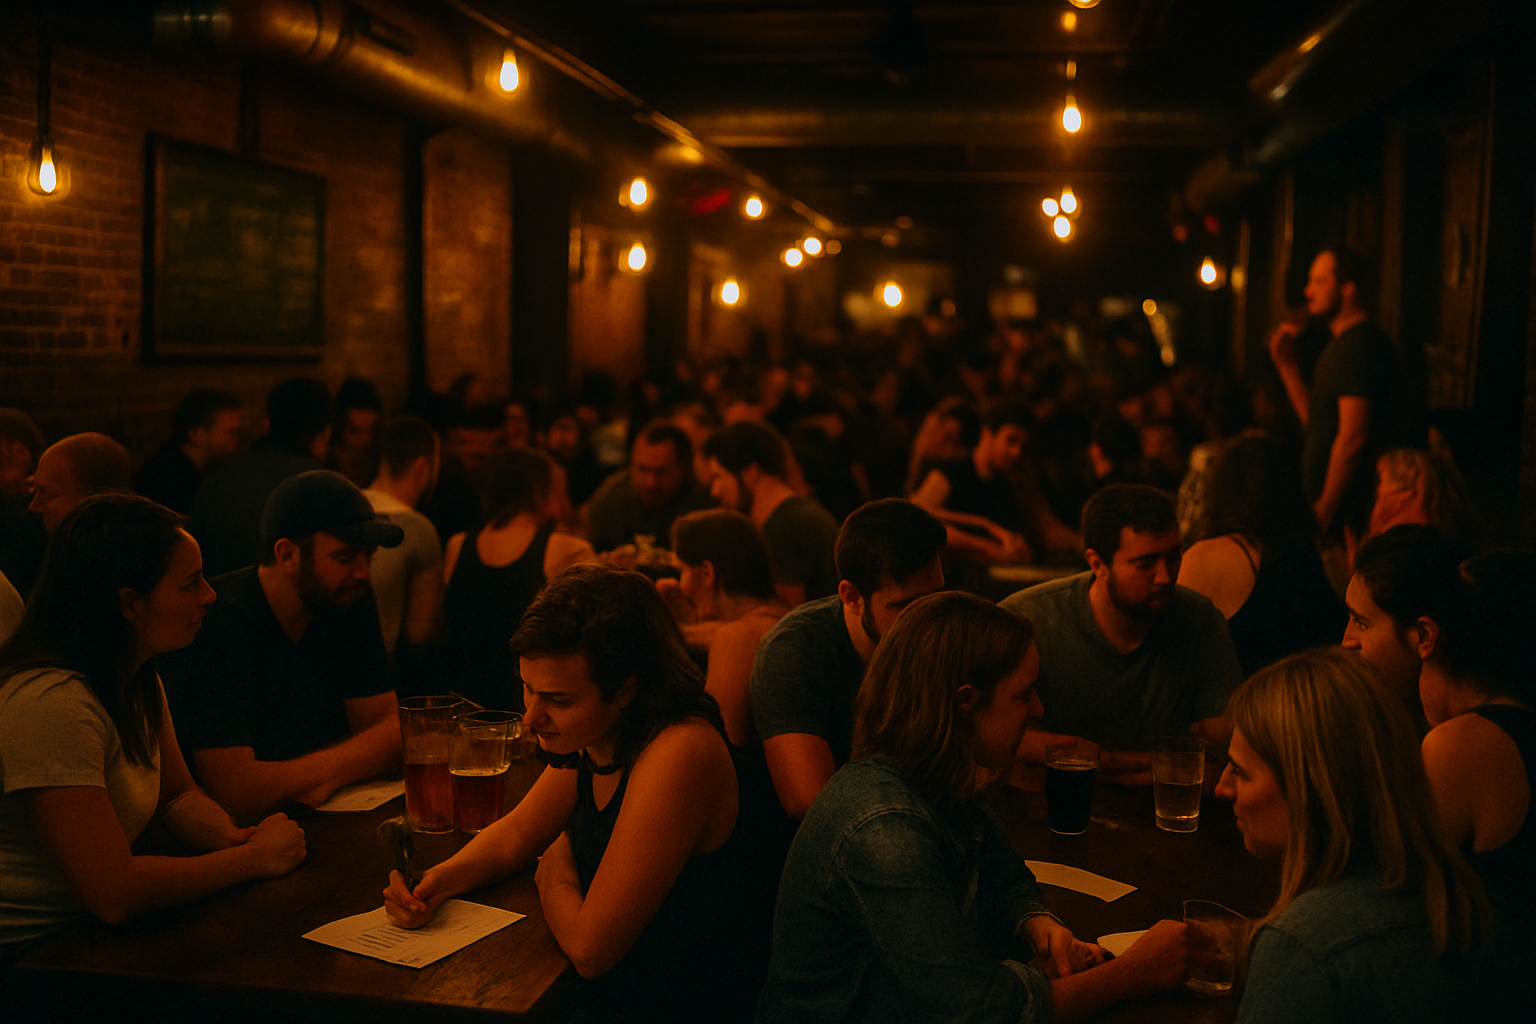
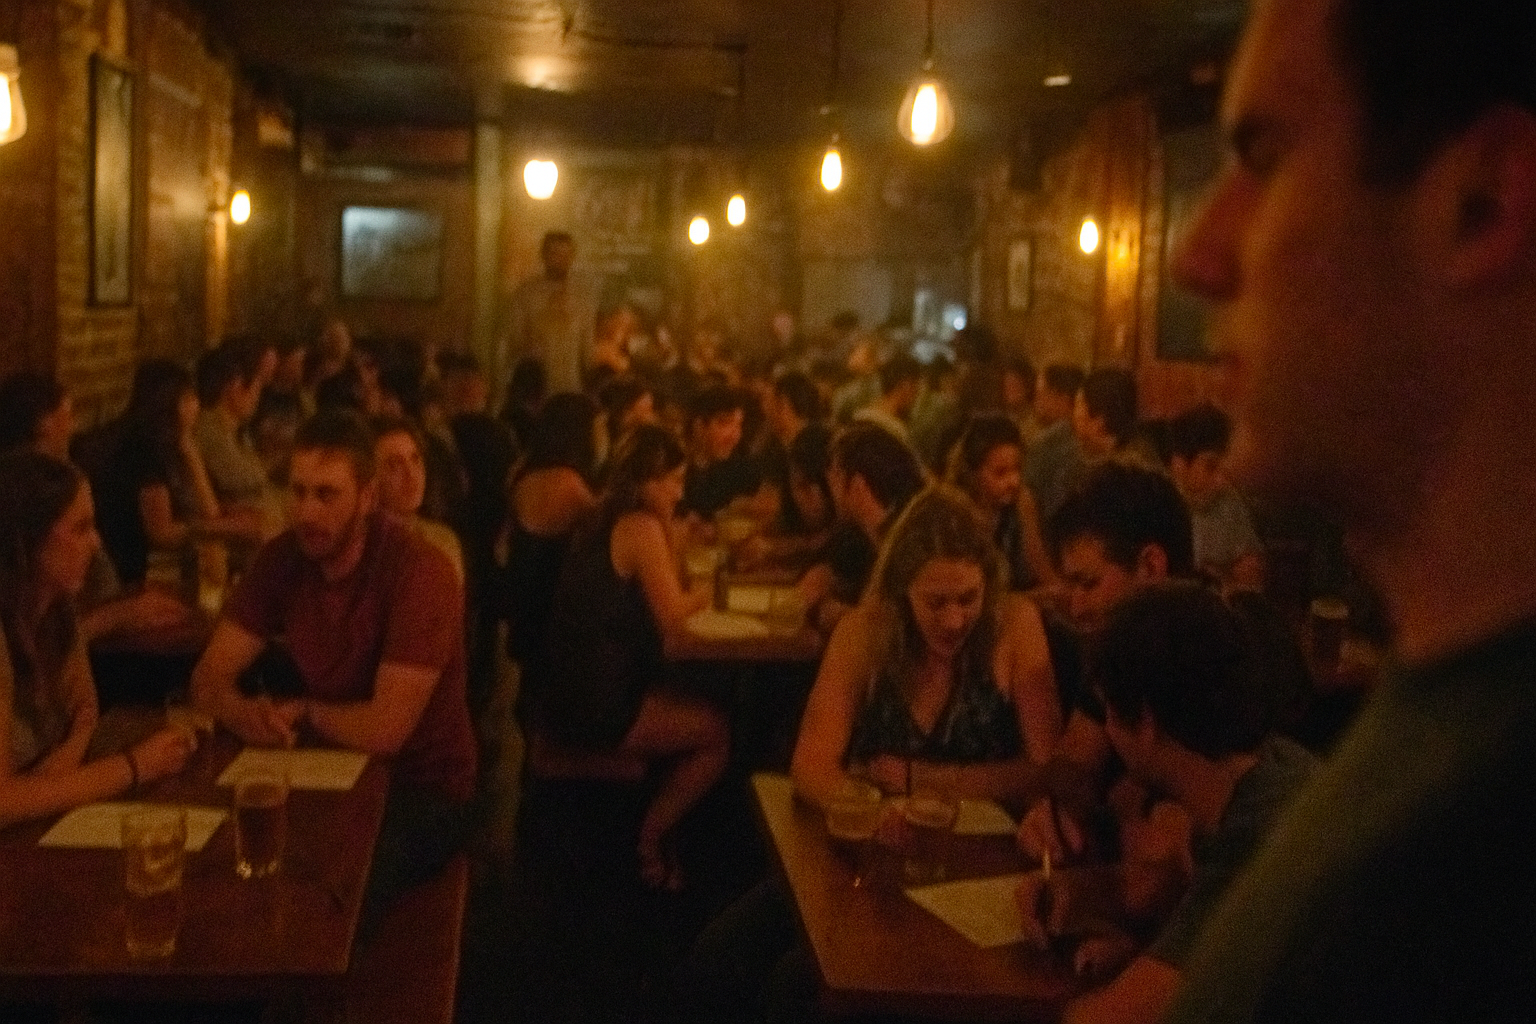
time tweaks

diff --git a/events.html b/events.html
@@ -92,8 +92,8 @@
     const SERIES = [
       {
         name: "Brindle Room",
-        // Monday Aug 11, 2025 @ 8:30 PM ET
-        startISO: "2025-08-11T20:30:00-04:00",
+        // Monday Aug 11, 2025 @ 8:00 PM ET
+        startISO: "2025-08-11T20:00:00-04:00",
         durationMinutes: 120,
         cadenceDays: 14,
         tz: "America/New_York",
@@ -101,7 +101,7 @@
       },
       {
         name: "Brightside Tavern",
-        // Tuesday Aug 19, 2025 @ 8:30 PM ET
+        // Tuesday Aug 19, 2025 @ 7:00 PM ET
         startISO: "2025-08-19T19:00:00-04:00",
         durationMinutes: 120,
         cadenceDays: 14,
